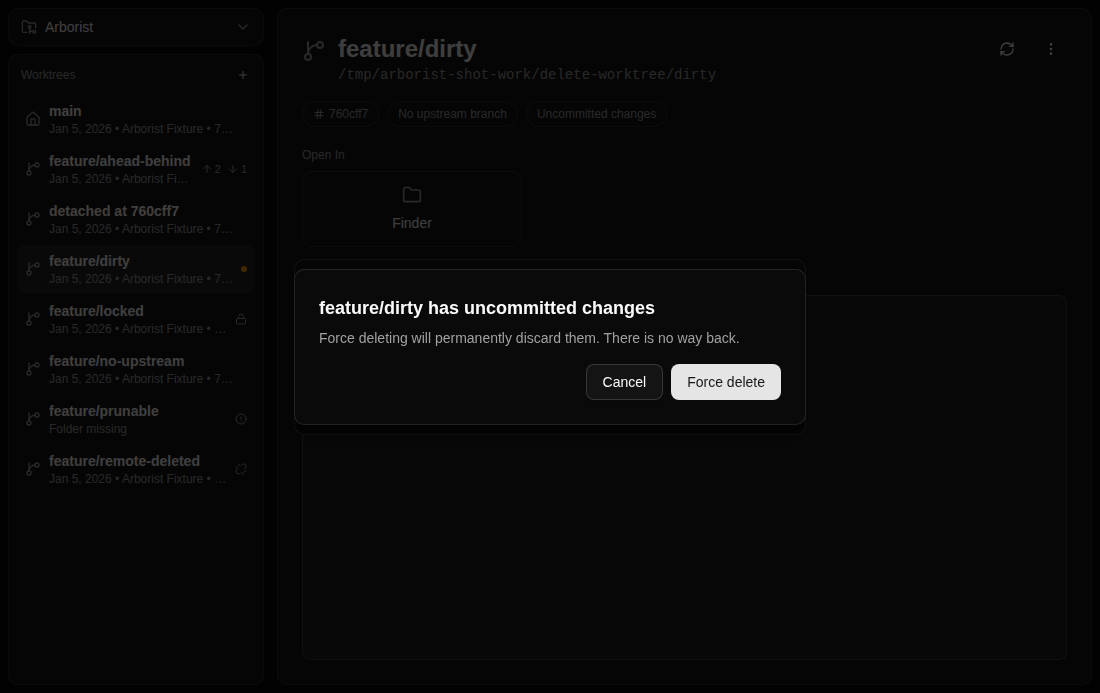
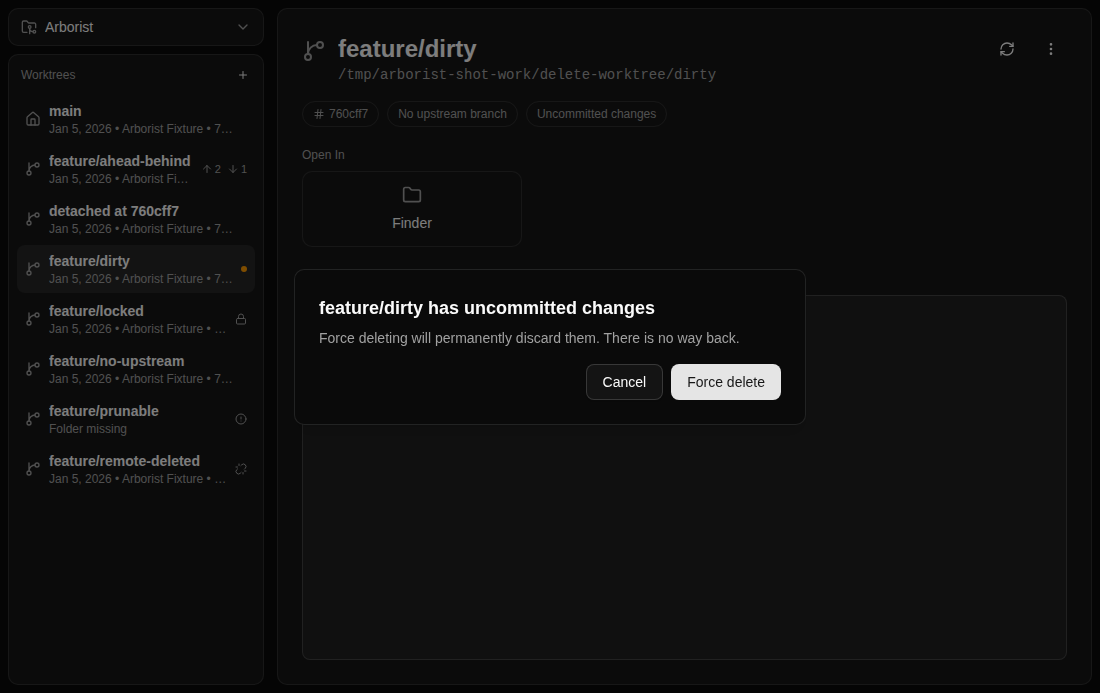
Compare paths git reports with paths the app builds
Git prints worktree paths with forward slashes, even on Windows, while
every path the app builds itself uses backslashes — so on Windows a
worktree could never be matched to the one selected in the sidebar, to
its note, or to a delete request. Normalising in the porcelain parser,
where the two conventions meet, fixes all of it at once. The integration
suite caught this on the Windows runner, which is what it is for.

Two smaller things the run turned up. The second delete confirmation now
replaces the first rather than stacking on top of it, since two modals
at once trap focus in the wrong one. And the e2e that walks both
confirmations now asserts the dialogs closed before looking at the
sidebar: a modal marks the rest of the app aria-hidden, so the row
"disappears" from the accessibility tree whether the delete succeeded or
failed, which made a passing assertion meaningless.

Claude-Session: https://claude.ai/code/session_0179ZhcDMfKJEeZYzxexyeh9

diff --git a/src/main/services/git/porcelain.ts b/src/main/services/git/porcelain.ts
@@ -19,6 +19,20 @@ function splitLines(output: string): string[] {
   return output.split(/\r?\n/)
 }
 
+/**
+ * Git reports worktree paths with forward slashes, even on Windows, while
+ * every path the app builds itself uses backslashes. Normalising here, once,
+ * is what lets a path from git and a path from `join()` compare equal — and
+ * they are compared constantly: selecting a worktree, keying its note,
+ * deleting it.
+ */
+export function normaliseWorktreePath(
+  path: string,
+  platform: NodeJS.Platform = process.platform
+): string {
+  return platform === 'win32' ? path.replace(/\//g, '\\') : path
+}
+
 /** Splits `key value` where the value may itself contain spaces, or is absent. */
 function splitRecord(line: string): [key: string, value: string | null] {
   const index = line.indexOf(' ')
@@ -34,7 +48,10 @@ function splitRecord(line: string): [key: string, value: string | null] {
  * identified it by the `bare` marker, which is absent in a normal repository,
  * so no worktree was ever protected from deletion.
  */
-export function parseWorktreeList(output: string): WorktreeEntry[] {
+export function parseWorktreeList(
+  output: string,
+  platform: NodeJS.Platform = process.platform
+): WorktreeEntry[] {
   const entries: WorktreeEntry[] = []
   let current: WorktreeEntry | null = null
 
@@ -54,7 +71,7 @@ export function parseWorktreeList(output: string): WorktreeEntry[] {
     if (key === 'worktree') {
       finish()
       current = {
-        path: value ?? '',
+        path: normaliseWorktreePath(value ?? '', platform),
         head: null,
         branch: null,
         isMain: entries.length === 0,

diff --git a/tests/e2e/smoke.spec.ts b/tests/e2e/smoke.spec.ts
@@ -1,4 +1,4 @@
-import { mkdtemp, mkdir, readFile, rm, realpath, stat, writeFile } from 'fs/promises'
+import { mkdtemp, mkdir, readdir, readFile, rm, realpath, writeFile } from 'fs/promises'
 import { tmpdir } from 'os'
 import { join } from 'path'
 import { test, expect, _electron as electron, type ElectronApplication } from '@playwright/test'
@@ -109,8 +109,21 @@ test('walks both confirmations to delete a dirty worktree', async () => {
   await expect(window.getByTestId('force-delete-worktree-dialog')).toBeVisible()
   await window.getByRole('button', { name: 'Force delete' }).click()
 
+  // Both dialogs closing is what says the removal succeeded — a failure keeps
+  // them open with the reason. Asserting on the sidebar first would not: a
+  // modal marks the rest of the app aria-hidden, so the row "disappears" from
+  // the accessibility tree either way.
+  await expect(window.getByTestId('force-delete-worktree-dialog')).toBeHidden()
+  await expect(window.getByTestId('delete-worktree-dialog')).toBeHidden()
   await expect(window.getByRole('button', { name: /feature\/dirty/ })).toHaveCount(0)
-  await expect(stat(dirty)).rejects.toThrow()
+  await expect
+    .poll(async () =>
+      readdir(dirty).then(
+        (entries) => entries.join(', '),
+        () => 'gone'
+      )
+    )
+    .toBe('gone')
 
   await app.close()
   await rm(root, { recursive: true, force: true })

diff --git a/tests/unit/porcelain.test.ts b/tests/unit/porcelain.test.ts
@@ -4,6 +4,7 @@ import {
   parseAheadBehind,
   parseBranchList,
   parseCommit,
+  normaliseWorktreePath,
   parseRemoteBranchList,
   parseStatus,
   parseUpstreamTrack,
@@ -235,5 +236,25 @@ describe('parseCommit', () => {
 
   it('returns null for an empty log, as in a repository with no commits', () => {
     expect(parseCommit('')).toBeNull()
+  })
+})
+
+describe('normaliseWorktreePath', () => {
+  it('turns git\u2019s forward slashes into the separator Windows paths use', () => {
+    expect(normaliseWorktreePath('C:/Users/iso/code/arborist', 'win32')).toBe(
+      'C:\\Users\\iso\\code\\arborist'
+    )
+  })
+
+  it('leaves a POSIX path alone', () => {
+    expect(normaliseWorktreePath('/Users/iso/code/arborist', 'darwin')).toBe(
+      '/Users/iso/code/arborist'
+    )
+  })
+
+  it('normalises the paths a worktree listing reports', () => {
+    const output = 'worktree C:/code/arborist\nHEAD aaa\nbranch refs/heads/main\n'
+
+    expect(parseWorktreeList(output, 'win32')[0].path).toBe('C:\\code\\arborist')
   })
 })

diff --git a/tests/integration/automation.test.ts b/tests/integration/automation.test.ts
@@ -33,7 +33,10 @@ function finished(): Promise<AutomationEvent & { type: 'finished' }> {
 }
 
 beforeEach(async () => {
-  cwd = await fs.mkdtemp(join(tmpdir(), 'arborist-automation-'))
+  // realpath because the temp directory a shell reports back is the resolved
+  // one: /private/var rather than /var on macOS, and the long form rather
+  // than the 8.3 short form on Windows.
+  cwd = await fs.realpath(await fs.mkdtemp(join(tmpdir(), 'arborist-automation-')))
   events = []
   runner = new AutomationRunner(
     (event) => events.push(event),

diff --git a/src/renderer/src/components/delete-worktree.tsx b/src/renderer/src/components/delete-worktree.tsx
@@ -54,6 +54,9 @@ export function DeleteWorktreeDialogs({
     // nothing to lose and nothing to ask about.
     const dirty = worktree.prunable ? false : await invoke('worktrees:isDirty', worktree.path)
     if (dirty) {
+      // The second question replaces the first rather than stacking on it:
+      // two modals at once trap focus in the wrong one.
+      onOpenChange(false)
       setConfirmingForce(true)
       return
     }
